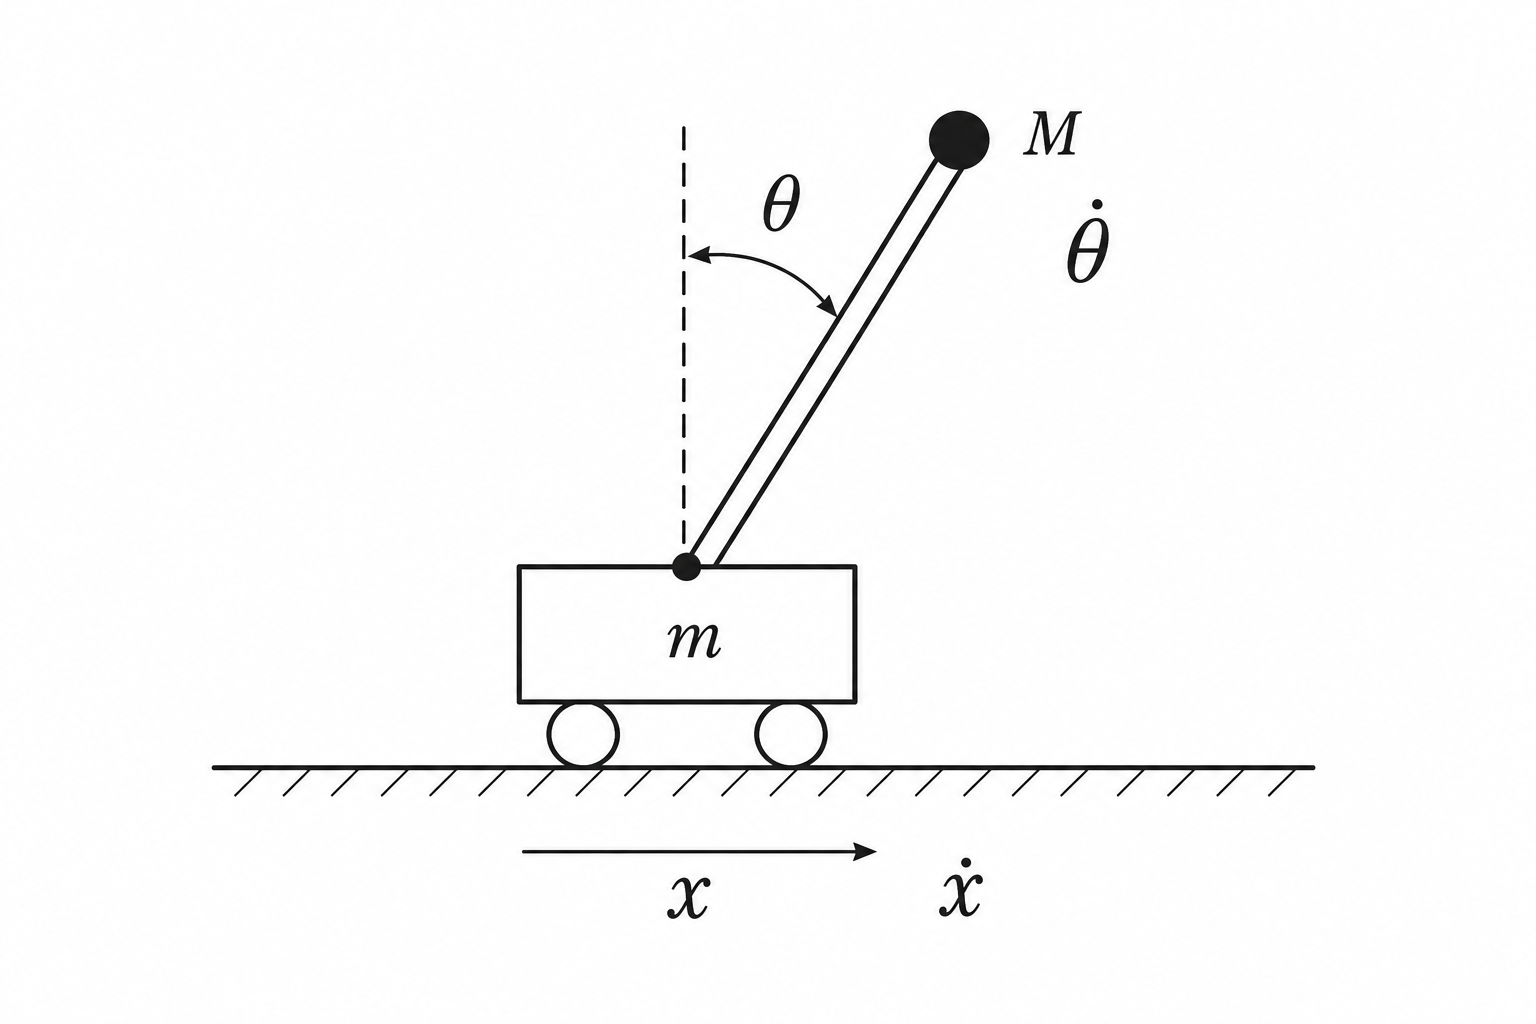
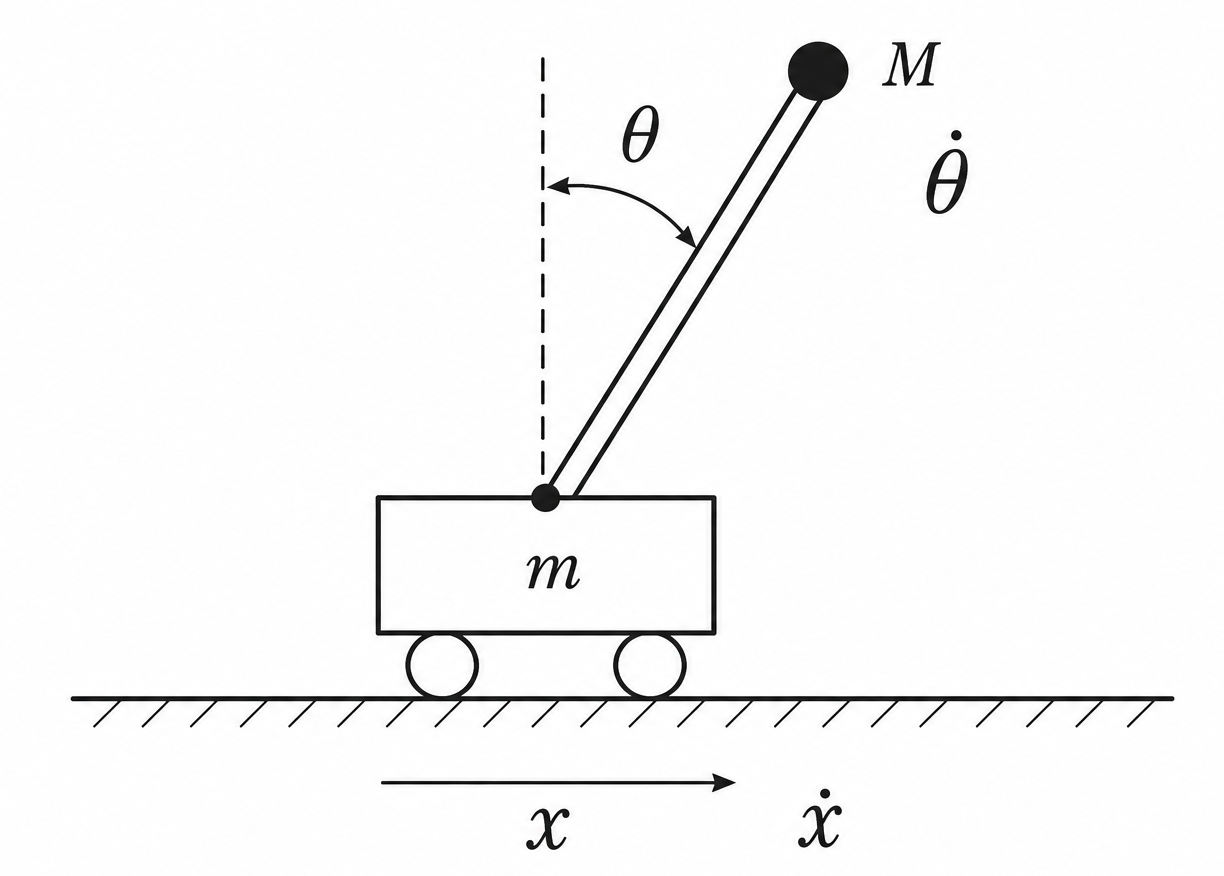
[mdp-cart-pole] fig fmt again

diff --git a/mdp-cart-pole/README.md b/mdp-cart-pole/README.md
@@ -3,7 +3,7 @@
 The “Cart-Pole” problem is a classic dynamical system of study. It is deceptively simple and has been well-examined for over a hundred years. The first written description of the problem can be traced to Stephenson (1908) [0] with a surge in study within formal academic settings emerging in the 1960s [1][2][3]
 
 <p align="center">
-  <img src="cart-pole-fig.png" width="50%" height="50%" alt="https://chatgpt.com/c/6a9ee7f4-b8fc-83e8-ac02-24d5b8f4051f"/>
+  <img src="cart-pole-fig.png" width="70%" height="70%" alt="https://chatgpt.com/c/6a9ee7f4-b8fc-83e8-ac02-24d5b8f4051f"/>
   <br>
   <sub>Fig. Classic annotated diagram of the cart-pole system under study</sub>
 </p>
